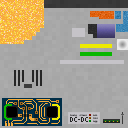
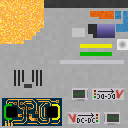
Various improvements:
* DC/DC and vDC/DC new textures/polish
* Isolation DC/DC is a dev-only item (for now)
* Adjusted construction string assembly in Waila

Changed region(s): [[0.5312, 0.875, 0.9688, 1.0], [0.7188, 0.6875, 0.9688, 0.7812], [0.5625, 0.6875, 0.6875, 0.8125]]

diff --git a/src/main/kotlin/mods/eln/packets/TransparentNodeResponsePacket.kt b/src/main/kotlin/mods/eln/packets/TransparentNodeResponsePacket.kt
@@ -3,15 +3,17 @@ package mods.eln.packets
 import cpw.mods.fml.common.network.ByteBufUtils
 import cpw.mods.fml.common.network.simpleimpl.IMessage
 import io.netty.buffer.ByteBuf
+import mods.eln.integration.waila.TransparentNodeWailaEntry
 import mods.eln.misc.Coordinate
-import java.util.*
 
 /**
  * Created by Gregory Maddra on 2016-06-27.
  */
 open class TransparentNodeResponsePacket : IMessage {
 
-    lateinit var map: Map<String, String>
+    lateinit var entries: List<TransparentNodeWailaEntry>
+    val map: Map<String, String>
+        get() = entries.associate { it.label to it.values.firstOrNull().orEmpty() }
     lateinit var coord: Coordinate
 
     constructor() {
@@ -19,41 +21,35 @@ open class TransparentNodeResponsePacket : IMessage {
     }
 
     constructor(m: Map<String, String>, c: Coordinate) {
-        map = m
+        entries = m.map { (label, value) -> TransparentNodeWailaEntry(label, listOf(value)) }
+        coord = c
+    }
+
+    constructor(entries: List<TransparentNodeWailaEntry>, c: Coordinate) {
+        this.entries = entries
         coord = c
     }
 
     override fun fromBytes(buf: ByteBuf?) {
-        var keys = listOf<String>()
-        var values = listOf<String>()
-        val length1 = ByteBufUtils.readVarInt(buf, 5)
-        for (i in 1..length1) {
-            keys += ByteBufUtils.readUTF8String(buf)
-        }
-        for (k in 1..length1) {
-            values += ByteBufUtils.readUTF8String(buf)
+        val length = ByteBufUtils.readVarInt(buf, 5)
+        entries = (1..length).map {
+            val label = ByteBufUtils.readUTF8String(buf)
+            val valueCount = ByteBufUtils.readVarInt(buf, 5)
+            TransparentNodeWailaEntry(label, (1..valueCount).map { ByteBufUtils.readUTF8String(buf) })
         }
         val x = ByteBufUtils.readVarInt(buf, 5)
         val y = ByteBufUtils.readVarInt(buf, 5)
         val z = ByteBufUtils.readVarInt(buf, 5)
         val w = ByteBufUtils.readVarInt(buf, 5)
         coord = Coordinate(x, y, z, w)
-        val i1 = keys.iterator()
-        val i2 = values.iterator()
-        var localmap = LinkedHashMap<String, String>()
-        while (i1.hasNext() && i2.hasNext()) {
-            localmap.put(i1.next(), i2.next())
-        }
-        map = localmap
     }
 
     override fun toBytes(buf: ByteBuf?) {
-        ByteBufUtils.writeVarInt(buf, map.size, 5)
-        for (element: String in map.keys.iterator()) {
-            ByteBufUtils.writeUTF8String(buf, element)
-        }
-        for (element: String in map.values.iterator()) {
-            ByteBufUtils.writeUTF8String(buf, element)
+        ByteBufUtils.writeVarInt(buf, entries.size, 5)
+        for (entry in entries) {
+            ByteBufUtils.writeUTF8String(buf, entry.label)
+            ByteBufUtils.writeVarInt(buf, entry.values.size, 5)
+            entry.values.forEach { ByteBufUtils.writeUTF8String(buf, it) }
         }
         ByteBufUtils.writeVarInt(buf, coord.x, 5)
         ByteBufUtils.writeVarInt(buf, coord.y, 5)

diff --git a/src/main/kotlin/mods/eln/registration/TransparentNodeRegistration.kt b/src/main/kotlin/mods/eln/registration/TransparentNodeRegistration.kt
@@ -378,17 +378,19 @@ object TransparentNodeRegistration {
             desc.setDefaultIcon("onewayboostbuckvdcdcconverter")
             transparentNodeItem.addDescriptor(subId + (id shl 6), desc)
         }
-        run {
-            subId = 7
-            name = TR_NAME(I18N.Type.NONE, "Isolation Transformer")
-            val desc = OneWayDcDcDescriptor(
-                name, Eln.obj.getObj("isolationdcdc"), Eln.obj.getObj(
-                    "feromagneticcorea"
-                ), Eln.obj.getObj("transformatorCase"), OneWayDcDcMode.ISOLATION,
-                guiTexture = "isolationdcdc.png"
-            )
-            desc.setDefaultIcon("isolationtransformer")
-            transparentNodeItem.addDescriptor(subId + (id shl 6), desc)
+        if (Eln.instance.isDevelopmentRun) {
+            run {
+                subId = 7
+                name = TR_NAME(I18N.Type.NONE, "Isolation Transformer")
+                val desc = OneWayDcDcDescriptor(
+                    name, Eln.obj.getObj("isolationdcdc"), Eln.obj.getObj(
+                        "feromagneticcorea"
+                    ), Eln.obj.getObj("transformatorCase"), OneWayDcDcMode.ISOLATION,
+                    guiTexture = "isolationdcdc.png"
+                )
+                desc.setDefaultIcon("isolationtransformer")
+                transparentNodeItem.addDescriptor(subId + (id shl 6), desc)
+            }
         }
     }
 

diff --git a/src/main/kotlin/mods/eln/packets/TransparentNodeRequestPacketHandler.kt b/src/main/kotlin/mods/eln/packets/TransparentNodeRequestPacketHandler.kt
@@ -16,16 +16,16 @@ class TransparentNodeRequestPacketHandler : IMessageHandler<TransparentNodeReque
         val ghostElem = Eln.ghostManager.getGhost(c)
         if(ghostElem != null) c = ghostElem.observatorCoordonate!!
         val node = NodeManager.instance!!.getNodeFromCoordonate(c) as? TransparentNode
-        var stringMap: Map<String, String> = emptyMap()
+        var entries = emptyList<mods.eln.integration.waila.TransparentNodeWailaEntry>()
         if (node != null) {
             try {
-                stringMap = node.element!!.getWaila()
+                entries = node.element!!.getWailaEntries()
             } catch (e: NullPointerException) {
                 Utils.println("Attempted to get WAILA info for an invalid node!")
                 e.printStackTrace()
                 return null
             }
         }
-        return TransparentNodeResponsePacket(stringMap, c)
+        return TransparentNodeResponsePacket(entries, c)
     }
 }

diff --git a/src/main/kotlin/mods/eln/integration/waila/TransparentNodeWailaProvider.kt b/src/main/kotlin/mods/eln/integration/waila/TransparentNodeWailaProvider.kt
@@ -20,7 +20,14 @@ class TransparentNodeWailaProvider : IWailaDataProvider {
         val coord = Coordinate(accessor.position.blockX, accessor.position.blockY, accessor.position.blockZ,
             accessor.world)
         try {
-            WailaCache.nodes.get(coord)?.forEach { currenttip.add("${it.key}: ${SpecialChars.WHITE}${it.value}") }
+            WailaCache.nodes.get(coord)?.forEach { entry ->
+                if (entry.values.size == 1) {
+                    currenttip.add("${entry.label}: ${SpecialChars.WHITE}${entry.values.single()}")
+                } else {
+                    currenttip.add("${entry.label}:")
+                    entry.values.forEach { currenttip.add("${SpecialChars.WHITE}$it") }
+                }
+            }
         } catch(e: CacheLoader.InvalidCacheLoadException) {
             //This is probably just it complaining about the cache returning null. Should be safe to ignore.
         }

diff --git a/src/main/kotlin/mods/eln/craft/CraftingRecipes.kt b/src/main/kotlin/mods/eln/craft/CraftingRecipes.kt
@@ -681,10 +681,12 @@ object CraftingRecipes {
             findItemStack("Variable DC-DC Converter"), 'D', findItemStack("Signal Diode"), 'B',
             Eln.config.getStringOrElse("runtime.dictionary.cheapChip", "circuitElnBasic")
         )
-        addRecipe(
-            findItemStack("Isolation Transformer"), "GGG", "CDC", "GGG", 'C', findItemStack("Copper Cable"), 'D',
-            findItemStack("One-way DC-DC Converter"), 'G', findItemStack("Ground Cable")
-        )
+        if (Eln.instance.isDevelopmentRun) {
+            addRecipe(
+                findItemStack("Isolation Transformer"), "GGG", "CDC", "GGG", 'C', findItemStack("Copper Cable"), 'D',
+                findItemStack("One-way DC-DC Converter"), 'G', findItemStack("Ground Cable")
+            )
+        }
     }
 
     private fun recipeHeatFurnace() {

diff --git a/src/main/kotlin/mods/eln/node/transparent/TransparentNodeElement.kt b/src/main/kotlin/mods/eln/node/transparent/TransparentNodeElement.kt
@@ -2,6 +2,7 @@ package mods.eln.node.transparent
 
 import mods.eln.Eln
 import mods.eln.ghost.GhostObserver
+import mods.eln.integration.waila.TransparentNodeWailaEntry
 import mods.eln.misc.Coordinate
 import mods.eln.misc.Direction
 import mods.eln.misc.Direction.Companion.fromInt
@@ -420,6 +421,10 @@ abstract class TransparentNodeElement(@JvmField var node: TransparentNode?, @Jvm
         val wailaList: MutableMap<String, String> = HashMap()
         wailaList["Info"] = multiMeterString(front)
         return wailaList
+    }
+
+    open fun getWailaEntries(): List<TransparentNodeWailaEntry> = getWaila().map { (label, value) ->
+        TransparentNodeWailaEntry(label, value.split('\n'))
     }
 
     companion object {

diff --git a/src/main/kotlin/mods/eln/transparentnode/DcDc.kt b/src/main/kotlin/mods/eln/transparentnode/DcDc.kt
@@ -452,9 +452,7 @@ class DcDcElement(transparentNode: TransparentNode, descriptor: TransparentNodeD
         flexibleWindingProblem(primary, tr("Primary"))?.let(messages::add)
         flexibleWindingProblem(secondary, tr("Secondary"))?.let(messages::add)
         if (messages.isEmpty()) return tr("Operational")
-        val broken = messages.any { it.contains(tr("Melted")) }
-        val title = if (broken) tr("Broken") else tr("Incomplete")
-        return title + messages.joinToString(separator = "") { "\n  * $it" }
+        return messages.joinToString(separator = "\n") { "  * $it" }
     }
 
     private fun flexibleWindingProblem(stack: ItemStack?, label: String): String? {

diff --git a/src/main/kotlin/mods/eln/packets/TransparentNodeResponsePacketHandler.kt b/src/main/kotlin/mods/eln/packets/TransparentNodeResponsePacketHandler.kt
@@ -10,9 +10,9 @@ import mods.eln.integration.waila.WailaCache
  */
 class TransparentNodeResponsePacketHandler : IMessageHandler<TransparentNodeResponsePacket, IMessage> {
     override fun onMessage(message: TransparentNodeResponsePacket?, ctx: MessageContext?): IMessage? {
-        val map = message!!.map
+        val entries = message!!.entries
         val coord = message.coord
-        WailaCache.nodes.put(coord, map)
+        WailaCache.nodes.put(coord, entries)
         return null
     }
 }

diff --git a/src/main/kotlin/mods/eln/transparentnode/DcDcWinding.kt b/src/main/kotlin/mods/eln/transparentnode/DcDcWinding.kt
@@ -81,8 +81,7 @@ internal fun dcDcConstructionStatus(
 
 internal fun dcDcConstructionWaila(status: DcDcConstructionStatus): String {
     if (status.operational) return tr("Operational")
-    val title = if (status.broken) tr("Broken") else tr("Incomplete")
-    return title + status.messages.joinToString(separator = "") { "\n  * $it" }
+    return status.messages.joinToString(separator = "\n") { "  * $it" }
 }
 
 internal fun dcDcFlexibleConstructionStatus(

diff --git a/src/main/kotlin/mods/eln/integration/waila/TransparentNodeWailaEntry.kt b/src/main/kotlin/mods/eln/integration/waila/TransparentNodeWailaEntry.kt
@@ -1,0 +1,3 @@
+package mods.eln.integration.waila
+
+data class TransparentNodeWailaEntry(val label: String, val values: List<String>)

diff --git a/src/main/java/mods/eln/integration/waila/WailaCache.java b/src/main/java/mods/eln/integration/waila/WailaCache.java
@@ -11,7 +11,7 @@ import mods.eln.packets.GhostNodeWailaRequestPacket;
 import mods.eln.packets.SixNodeWailaRequestPacket;
 import mods.eln.packets.TransparentNodeRequestPacket;
 
-import java.util.Map;
+import java.util.List;
 import java.util.concurrent.TimeUnit;
 
 /**
@@ -19,7 +19,7 @@ import java.util.concurrent.TimeUnit;
  */
 public class WailaCache {
 
-    public static LoadingCache<Coordinate, Map<String, String>> nodes = CacheBuilder.newBuilder()
+    public static LoadingCache<Coordinate, List<TransparentNodeWailaEntry>> nodes = CacheBuilder.newBuilder()
         .maximumSize(20)
         .refreshAfterWrite(2, TimeUnit.SECONDS)
         .build(
